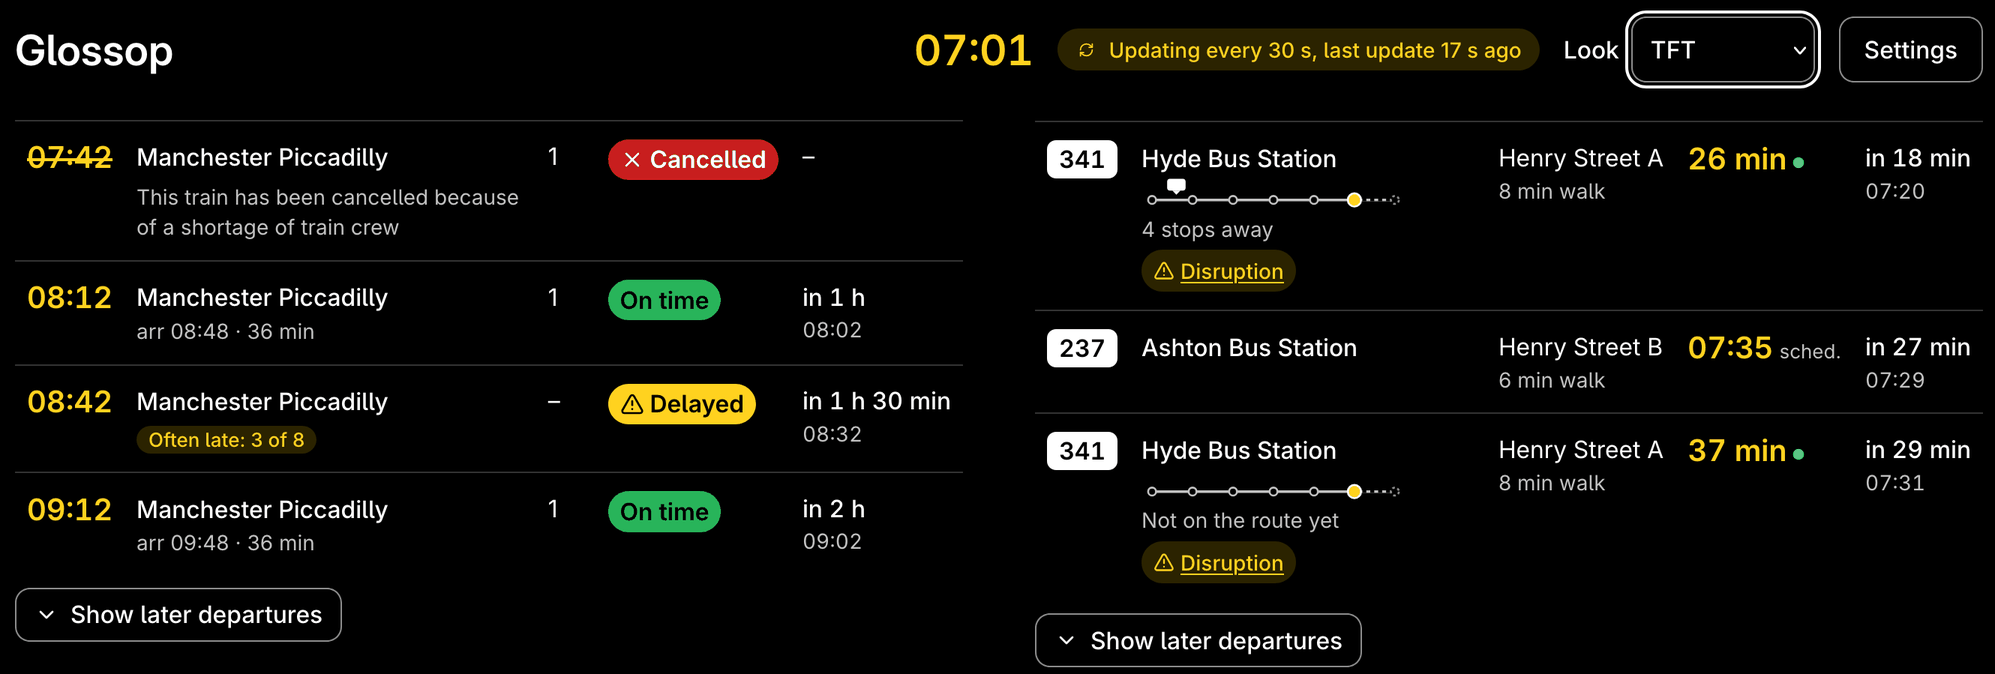
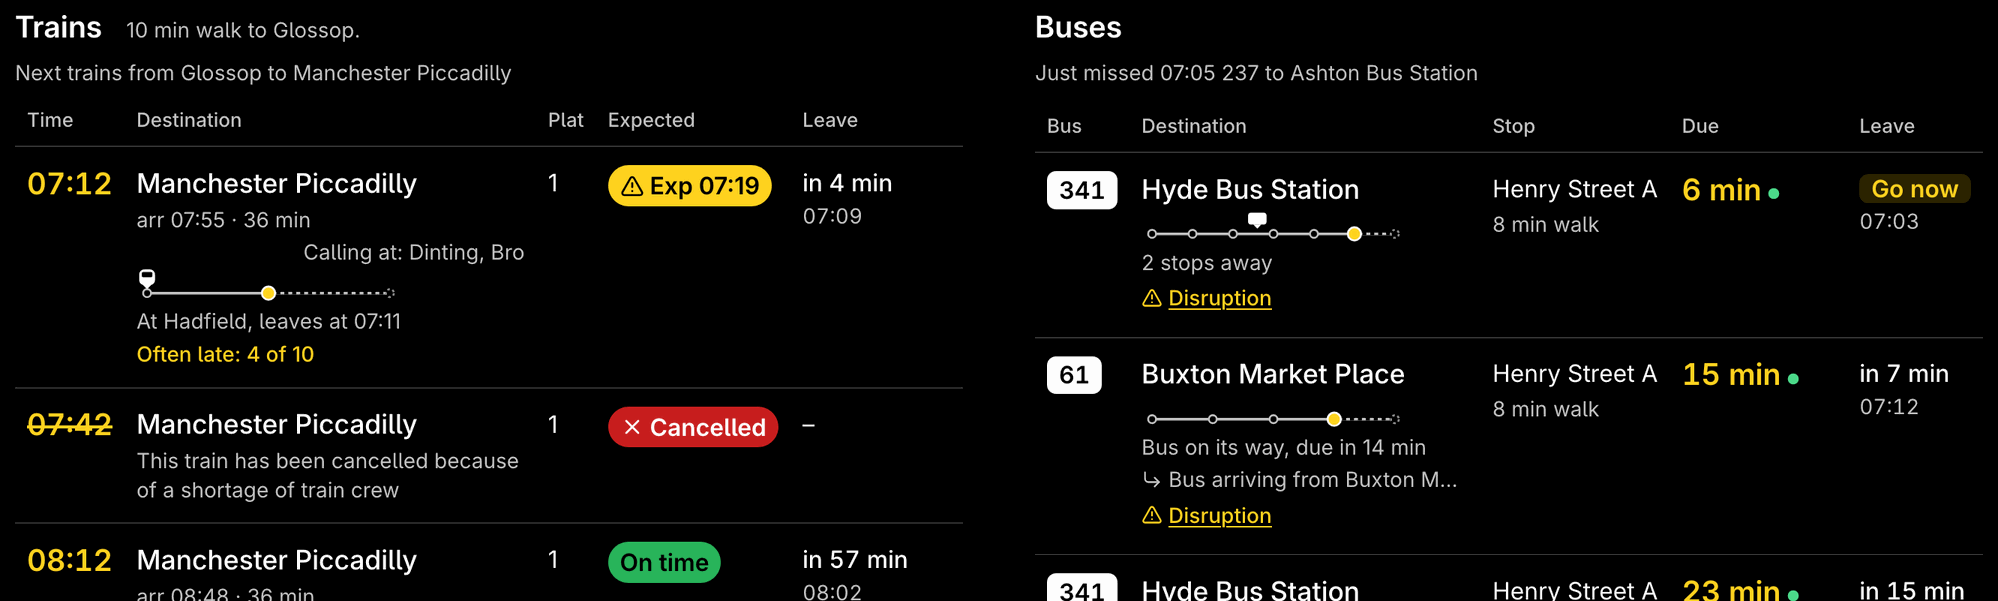
docs(dashboard): retake the pictures the design pass changes
The dark dashboard, the boards, the train's sheet and the TFT and
Split-flap boards, taken on the sample morning. The window was 1512 CSS
pixels wide, not 1280, as the browser couldn't be resized; the light
picture and the phone-width looks are left as they were.

diff --git a/docs/dashboard.md b/docs/dashboard.md
@@ -29,7 +29,7 @@ All of this shows until **What to show** on the [Dashboard page](settings.md#das
 - **At the bottom:** links to [Performance](#performance) and the settings, and **Look**, then where the times come from.
 - **Look:** a list at the bottom of the page, remembered per browser. **Standard** is the usual page, light or dark as your device is set. **Dot matrix** is the station-board style, amber on black, with the times, destinations and status in the same dot-matrix lettering as the e-paper board; a destination too long for its column is cut short with "…" on one line (its sheet has the whole name), and the rest stays in plain type so it's easy to read. **TFT** is white and yellow on black, like the newer station screens: the times in bold yellow, and **On time**, late and **Cancelled** each in a green, yellow or red pill that backs up its words. **Split-flap** puts the boards' times, destinations and statuses on dark tiles split across the middle, like an old flap board: late in amber letters, **Cancelled** in black on amber tiles. When one changes, its letters flip through to the new ones in under half a second (at once if your device is set to reduce motion); screen readers hear the words, never the letters in between. Choose with the mouse, or Tab to it and use the arrow keys. A browser that had the old **Board look** turned on opens in Dot matrix.
 
-  ![The trains and buses in the TFT look, with On time in green pills, Delayed in a yellow one and Cancelled in a red one](images/dashboard-tft.png)
+  ![The trains and buses in the TFT look, with On time in a green pill, Exp 07:19 in a yellow one and Cancelled in a red one](images/dashboard-tft.png)
 
   ![The trains and buses in the Split-flap look, each time, destination and status a letter a tile](images/dashboard-flap.png)
 - **Weather:** now (temperature, feels like, wind, and the next sunrise or sunset), the rain warning, and the next 4 hours in a row (the hour it is now as **Now**), each with a bar for the chance of rain (written out from 30%). **More hours** shows the rest of the next 12.

diff --git a/README.md b/README.md
@@ -30,7 +30,7 @@ A Pi can run either view or both; Docker and a desktop run the dashboard. Each i
 
 The next trains and buses side by side, each with its walk, its countdown and where it is now:
 
-![The train and bus boards: the 07:12 waiting at Hadfield and often late, the 07:42 cancelled, and buses with strips showing them two and four stops away](docs/images/dashboard-boards.png)
+![The train and bus boards: the 07:12 waiting at Hadfield and often late, the 07:42 cancelled, and buses with strips, the 341 two stops away and the 61's bus on its way](docs/images/dashboard-boards.png)
 
 Open a train for its whole journey, or the area map for every bus on your lines:
 
